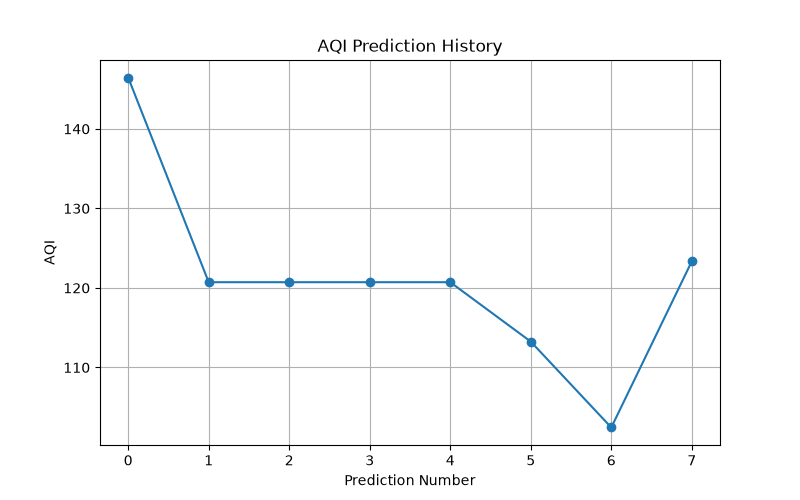
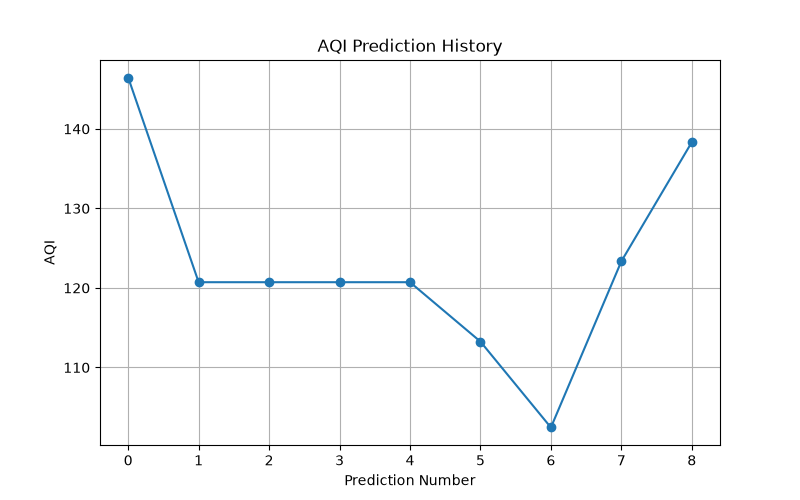
Updated CSS and fixed project

diff --git a/static/style.css b/static/style.css
@@ -1,31 +1,35 @@
-body {
+body{
+    margin:0;
+    padding:0;
+    font-family:Arial,sans-serif;
+    background:linear-gradient(135deg,#d4fc79,#96e6a1,#5ee7df);
+    background-size:300% 300%;
+    animation:bgmove 10s ease infinite;
+}
 
-    margin: 0;
-    padding: 0;
-    background: #e8f5e9;
-    font-family: Arial, sans-serif;
-
+@keyframes bgmove{
+    0%{background-position:0% 50%;}
+    50%{background-position:100% 50%;}
+    100%{background-position:0% 50%;}
 }
 
 
 
-.container {
+.container{
+    width:500px;
+    max-width:92%;
+    margin:40px auto;
+    padding:35px;
+    border-radius:20px;
+    background:rgba(255,255,255,0.95);
+    backdrop-filter:blur(12px);
+    box-shadow:0 15px 35px rgba(0,0,0,0.25);
+    text-align:center;
+    transition:.3s;
+}
 
-    width: 450px;
-    max-width: 90%;
-
-    margin: 50px auto;
-
-    background: white;
-
-    padding: 30px;
-
-    border-radius: 15px;
-
-    box-shadow: 0 0 15px rgba(0,0,0,0.2);
-
-    text-align: center;
-
+.container:hover{
+    transform:translateY(-4px);
 }
 
 
@@ -78,34 +82,26 @@ input {
 
 
 
-button {
-
-    width: 95%;
-
-    padding: 12px;
-
-    margin-top: 15px;
-
-    background: #2e7d32;
-
-    color: white;
-
-    border: none;
-
-    border-radius: 8px;
-
-    font-size: 18px;
-
-    cursor: pointer;
-
+button{
+    width:95%;
+    padding:14px;
+    margin-top:15px;
+    border:none;
+    border-radius:10px;
+    font-size:18px;
+    font-weight:bold;
+    color:white;
+    cursor:pointer;
+    background:linear-gradient(45deg,#2e7d32,#43a047);
+    transition:.3s;
 }
 
 
 
-button:hover {
 
-    background: #1b5e20;
-
+button:hover{
+    transform:scale(1.03);
+    box-shadow:0 8px 20px rgba(0,0,0,.25);
 }
 
 